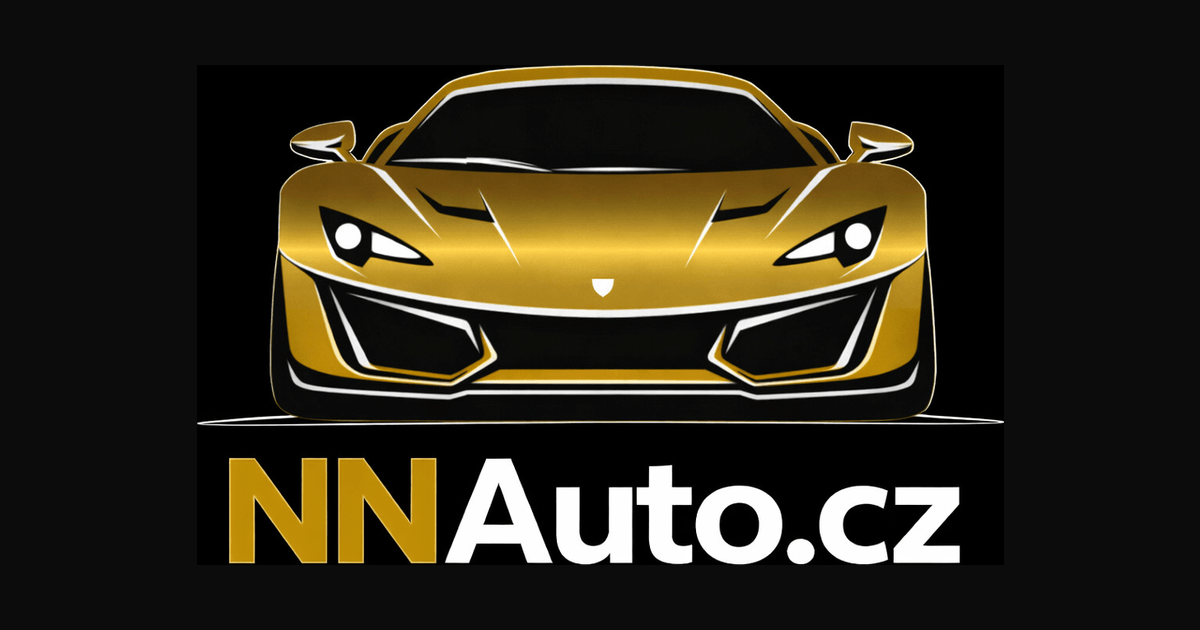
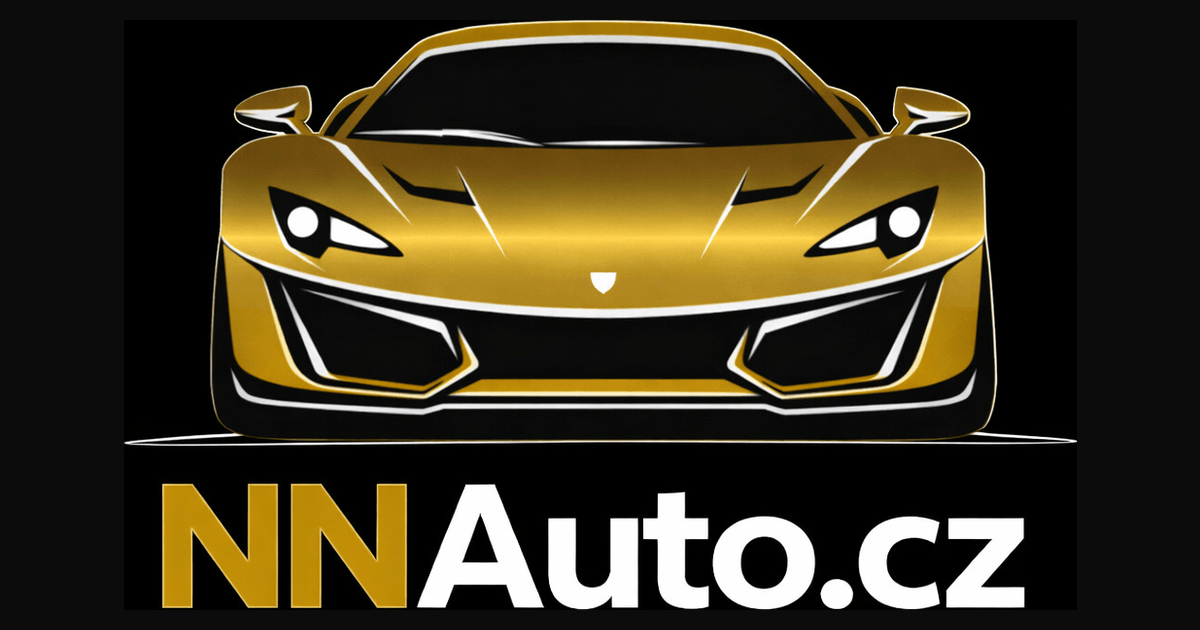
perf: full-bleed OG image + nginx proxy cache for images
- OG image now fills entire 1200x630 (logo maximized, no empty borders)
- Nginx proxy cache for /img/ and /objects/ (7 day TTL, 2GB disk, stale-while-revalidate)
- Second image request served from nginx disk cache (no server processing)

Made-with: Cursor

diff --git a/client/src/lib/imageOptimizer.ts b/client/src/lib/imageOptimizer.ts
@@ -3,6 +3,30 @@ export interface ImageOptimizationOptions {
   quality?: number;
   format?: "webp" | "avif" | "jpeg";
 }
+
+function normalizePath(originalPath: string): string {
+  let p = originalPath;
+  if (p.startsWith("/objects/")) p = p.slice("/objects/".length);
+  return p.replace(/^\/+/, "");
+}
+
+export function getOptimizedImageUrl(
+  originalPath: string,
+  options: ImageOptimizationOptions = {},
+): string {
+  if (!originalPath) return "";
+
+  const { width, quality = 70, format = "webp" } = options;
+  const path = normalizePath(originalPath);
+
+  const params = new URLSearchParams();
+  if (width) params.set("w", width.toString());
+  params.set("q", quality.toString());
+  params.set("f", format);
+
+  return `/img/${path}?${params.toString()}`;
+}
+
 export function getCardSrcSet(photoPath: string): string {
   const widths = [320, 480, 640, 960];
   return widths
@@ -11,27 +35,6 @@ export function getCardSrcSet(photoPath: string): string {
         `${getOptimizedImageUrl(photoPath, { width: w, quality: 70, format: "webp" })} ${w}w`,
     )
     .join(", ");
-}
-export function getOptimizedImageUrl(
-  originalPath: string,
-  options: ImageOptimizationOptions = {},
-): string {
-  if (!originalPath) return "";
-
-  const { width, quality = 70, format = "webp" } = options;
-
-  let path = originalPath;
-  if (path.startsWith("/objects/")) {
-    path = path.slice("/objects/".length);
-  }
-  path = path.replace(/^\/+/, "");
-
-  const params = new URLSearchParams();
-  if (width) params.set("w", width.toString());
-  params.set("q", quality.toString());
-  params.set("f", format);
-
-  return `/img/${path}?${params.toString()}`;
 }
 
 export function getCardImageUrl(photoPath: string): string {
